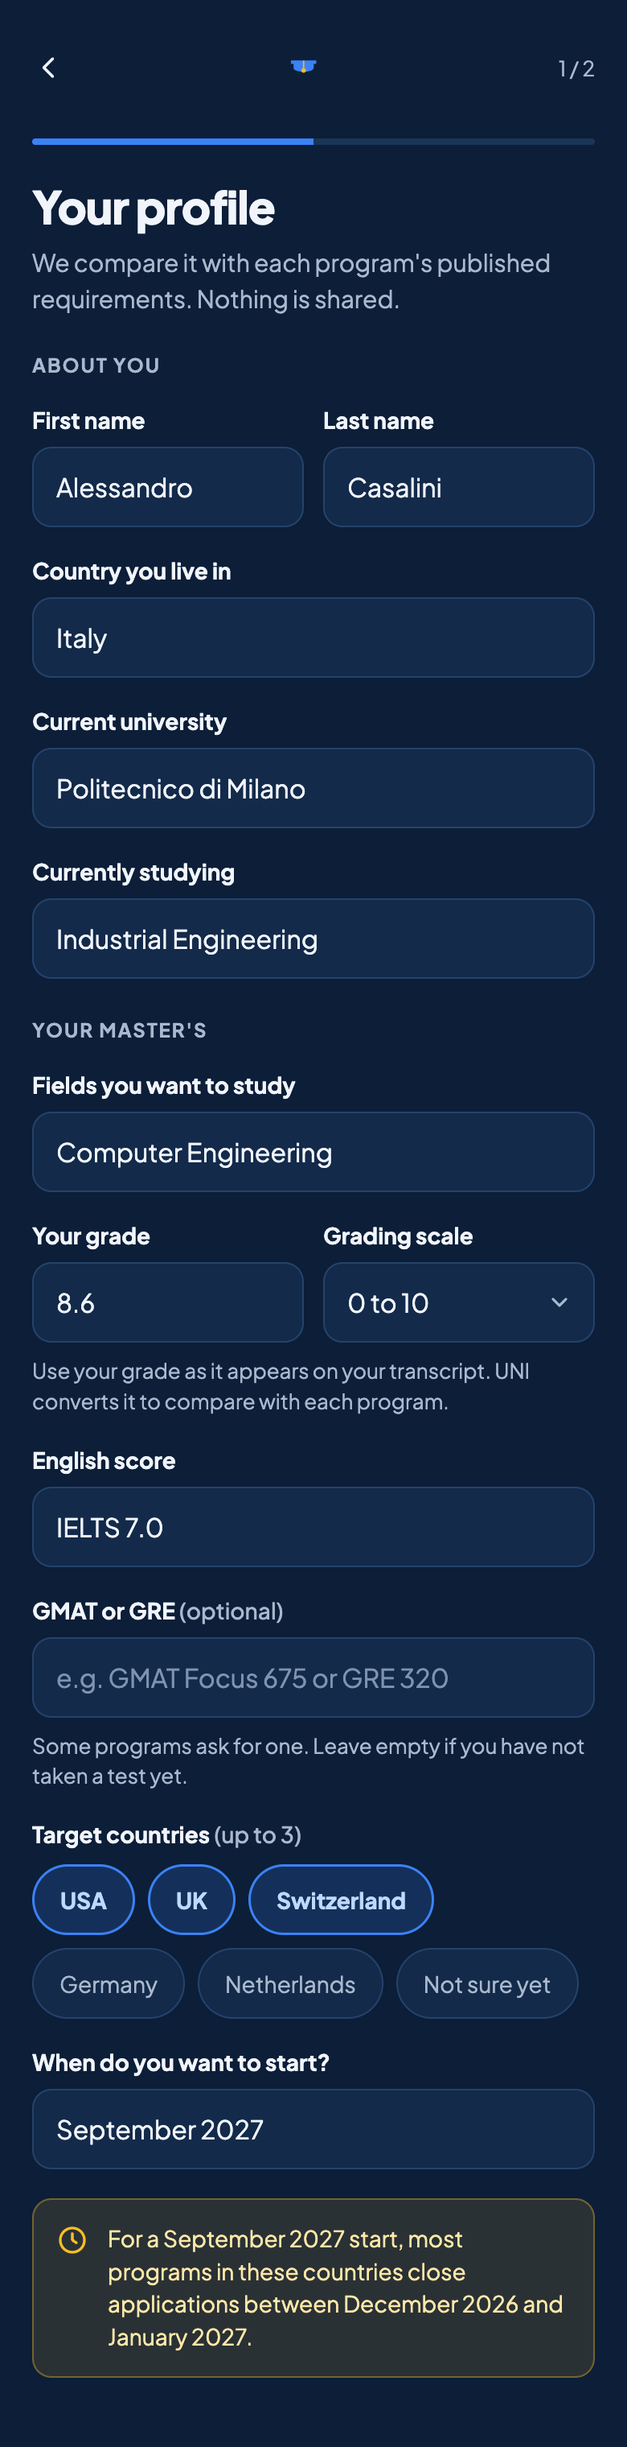
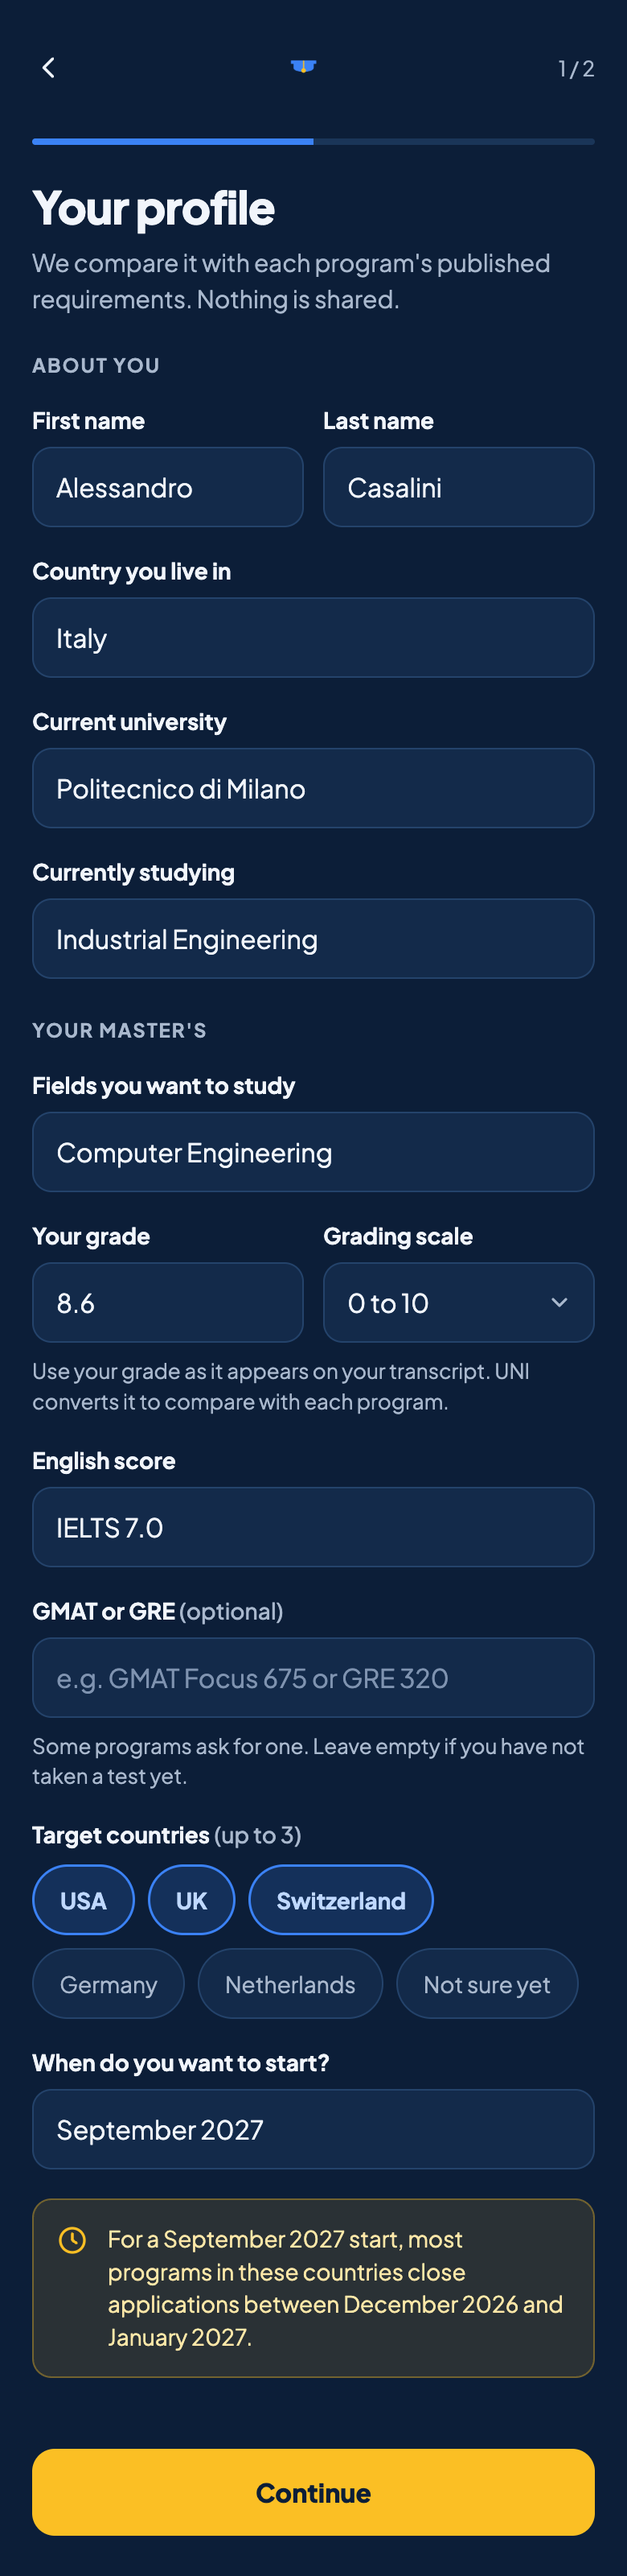
docs: add last 3 screen exports (2 re-exported, 5b, 6a); tick export task
Claude-Session: https://claude.ai/code/session_01FgsBHvAWPp5V2HxHyWxudt

diff --git a/docs/tasks.md b/docs/tasks.md
@@ -15,7 +15,7 @@ Rule for anything not on this list:
 | [ ] | Expo account (add Valeria to it); install Expo Go on iPhone | Alessandro |
 | [x] | Replace Next.js with Expo (Expo Router, TypeScript, Jest, ESLint) | Claude Code |
 | [x] | Final screen design on the canvas (Oct 17) | Alessandro + Valeria |
-| [ ] | Export one PNG per screen from the canvas into `docs/screens/` | Alessandro |
+| [x] | Export one PNG per screen from the canvas into `docs/screens/` | Alessandro |
 | [ ] | Supabase dev project, client in `src/data/supabase.ts`, keys in Codespaces secrets | Claude Code |
 | [ ] | Database schema with RLS: profiles (incl. step 2 fields, AI consent), programs, scholarships, applications (status, submitted_at), documents, feedback_rounds; private Storage bucket for PDFs | Claude Code |
 | [ ] | i18n setup (`i18n-js`, `expo-localization`, `locales/en.json`, `locales/es.json`) | Claude Code |

diff --git a/docs/progress.md b/docs/progress.md
@@ -17,7 +17,7 @@ Dev server: `npx expo start --tunnel` (installs `@expo/ngrok` globally on first 
 Oct 17: screen design final (canvas). `flows.md`, `product.md`, `business-rules.md`, `data.md`, `tasks.md` and `app-store.md` updated to match: Applications tab, profile step 2, AI consent, checklist, no living costs, feedback fully free, Apple and Google sign-in, English and Spanish.
 
 ## Next step
-Export the screens into `docs/screens/`. Then Supabase dev project and client in `src/data/supabase.ts`, then the first migration.
+Supabase dev project and client in `src/data/supabase.ts`, then the first migration.
 
 ## Open questions
 - Who collects the 30 to 50 programs (target Oct 25, columns in `docs/data.md`)
